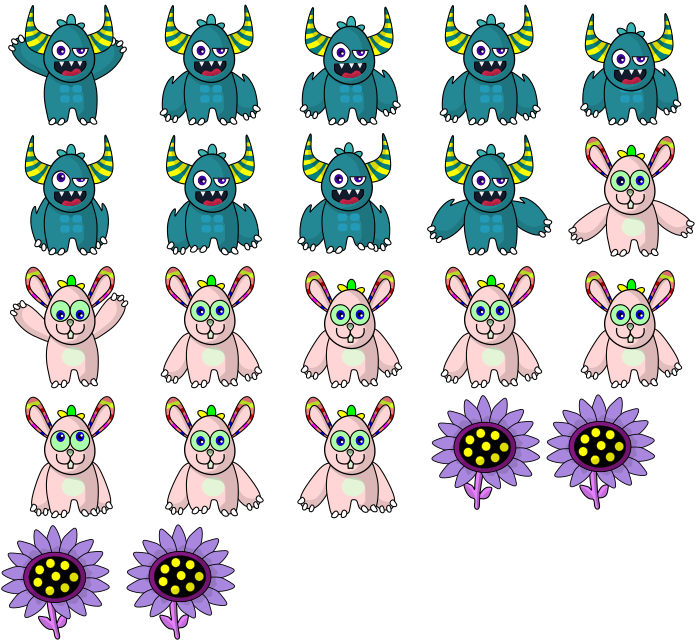
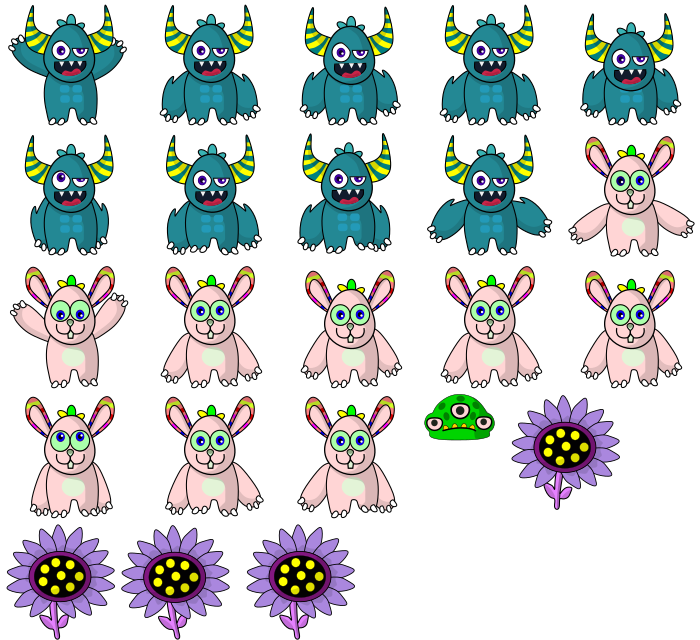
Las plagas se mueven.

Changed region(s): [[0.0, 0.8125, 0.51, 1.0], [0.6, 0.5938, 0.93, 0.8125]]

diff --git a/src/scenes/Level.ts b/src/scenes/Level.ts
@@ -10,6 +10,7 @@ import PlayerPrefab from "../prefabs/PlayerPrefab";
 import SemillaPrefab from "../prefabs/SemillaPrefab";
 import MacetaPrefab from "./MacetaPrefab";
 import ControllerButtonPrefab from "../prefabs/ControllerButtonPrefab";
+import EnemyPrefab from "../prefabs/EnemyPrefab";
 
 export default class Level extends Phaser.Scene {
 
@@ -130,33 +131,33 @@ export default class Level extends Phaser.Scene {
 		// macetasLayer
 		const macetasLayer = this.add.layer();
 
-		// tierra_png_3
-		const tierra_png_3 = new MacetaPrefab(this, 1146, 260, "plataformas", "tierra.png");
-		macetasLayer.add(tierra_png_3);
+		// maceta3
+		const maceta3 = new MacetaPrefab(this, 1146, 260, "plataformas", "tierra.png");
+		macetasLayer.add(maceta3);
 
-		// tierra_png_2
-		const tierra_png_2 = new MacetaPrefab(this, 2113, 269, "plataformas", "tierra.png");
-		macetasLayer.add(tierra_png_2);
+		// maceta5
+		const maceta5 = new MacetaPrefab(this, 2113, 269, "plataformas", "tierra.png");
+		macetasLayer.add(maceta5);
 
-		// tierra_png_1
-		const tierra_png_1 = new MacetaPrefab(this, 389, 194, "plataformas", "tierra.png");
-		macetasLayer.add(tierra_png_1);
+		// maceta1
+		const maceta1 = new MacetaPrefab(this, 389, 194, "plataformas", "tierra.png");
+		macetasLayer.add(maceta1);
 
-		// tierra_png
-		const tierra_png = new MacetaPrefab(this, 784, 231, "plataformas", "tierra.png");
-		macetasLayer.add(tierra_png);
+		// maceta2
+		const maceta2 = new MacetaPrefab(this, 784, 231, "plataformas", "tierra.png");
+		macetasLayer.add(maceta2);
 
-		// tierra_png_4
-		const tierra_png_4 = new MacetaPrefab(this, 1839, 260, "plataformas", "tierra.png");
-		macetasLayer.add(tierra_png_4);
+		// maceta4
+		const maceta4 = new MacetaPrefab(this, 1839, 260, "plataformas", "tierra.png");
+		macetasLayer.add(maceta4);
 
-		// tierra_png_2_1
-		const tierra_png_2_1 = new MacetaPrefab(this, 2762, 266, "plataformas", "tierra.png");
-		macetasLayer.add(tierra_png_2_1);
+		// maceta6
+		const maceta6 = new MacetaPrefab(this, 2762, 266, "plataformas", "tierra.png");
+		macetasLayer.add(maceta6);
 
-		// tierra_png_2_2
-		const tierra_png_2_2 = new MacetaPrefab(this, 3449, 254, "plataformas", "tierra.png");
-		macetasLayer.add(tierra_png_2_2);
+		// maceta7
+		const maceta7 = new MacetaPrefab(this, 3449, 254, "plataformas", "tierra.png");
+		macetasLayer.add(maceta7);
 
 		// floresLayer
 		const floresLayer = this.add.layer();
@@ -189,6 +190,37 @@ export default class Level extends Phaser.Scene {
 		// saltar_png
 		const saltar_png = this.add.image(710, 522, "ui", "saltar.png");
 		controllerLayer.add(saltar_png);
+
+		// enemyLayer
+		const enemyLayer = this.add.layer();
+
+		// enemyPrefab1
+		const enemyPrefab1 = new EnemyPrefab(this, 386, -299);
+		enemyLayer.add(enemyPrefab1);
+
+		// enemyPrefab2
+		const enemyPrefab2 = new EnemyPrefab(this, 779, -302);
+		enemyLayer.add(enemyPrefab2);
+
+		// enemyPrefab3
+		const enemyPrefab3 = new EnemyPrefab(this, 1138, -182);
+		enemyLayer.add(enemyPrefab3);
+
+		// enemyPrefab4
+		const enemyPrefab4 = new EnemyPrefab(this, 1835, -212);
+		enemyLayer.add(enemyPrefab4);
+
+		// enemyPrefab5
+		const enemyPrefab5 = new EnemyPrefab(this, 2122, -187);
+		enemyLayer.add(enemyPrefab5);
+
+		// enemyPrefab6
+		const enemyPrefab6 = new EnemyPrefab(this, 2750, -187);
+		enemyLayer.add(enemyPrefab6);
+
+		// enemyPrefab7
+		const enemyPrefab7 = new EnemyPrefab(this, 3442, -154);
+		enemyLayer.add(enemyPrefab7);
 
 		// fondo (components)
 		const fondoParallax = new Parallax(fondo);
@@ -239,6 +271,27 @@ export default class Level extends Phaser.Scene {
 		// saltar_png (components)
 		const saltar_pngParallax = new Parallax(saltar_png);
 		saltar_pngParallax.factor = 0;
+
+		// enemyPrefab1 (prefab fields)
+		enemyPrefab1.maceta = maceta1;
+
+		// enemyPrefab2 (prefab fields)
+		enemyPrefab2.maceta = maceta2;
+
+		// enemyPrefab3 (prefab fields)
+		enemyPrefab3.maceta = maceta3;
+
+		// enemyPrefab4 (prefab fields)
+		enemyPrefab4.maceta = maceta4;
+
+		// enemyPrefab5 (prefab fields)
+		enemyPrefab5.maceta = maceta5;
+
+		// enemyPrefab6 (prefab fields)
+		enemyPrefab6.maceta = maceta6;
+
+		// enemyPrefab7 (prefab fields)
+		enemyPrefab7.maceta = maceta7;
 
 		this.player = player;
 

diff --git a/src/prefabs/EnemyPrefab.ts b/src/prefabs/EnemyPrefab.ts
@@ -1,0 +1,57 @@
+import MacetaPrefab from "~/scenes/MacetaPrefab";
+
+/* START OF COMPILED CODE */
+
+import Phaser from "phaser";
+
+export default class EnemyPrefab extends Phaser.GameObjects.Image {
+
+	constructor(scene: Phaser.Scene, x?: number, y?: number, texture?: string, frame?: number | string) {
+		super(scene, x ?? 311, y ?? 187, texture || "character", frame ?? "Enemigo.png");
+
+		/* START-USER-CTR-CODE */
+		this.scene.events.once("scene-awake", () => this.awakePrefab());
+		/* END-USER-CTR-CODE */
+	}
+
+	public maceta: MacetaPrefab | undefined;
+
+	/* START-USER-CODE */
+
+	private awakePrefab() {
+
+		if (!this.maceta) {
+
+			return;
+		}
+
+		this.scene.add.tween({
+			targets: this,  
+			delay: 2000 + Math.random() * 8000,
+			y: this.maceta.y - 40,
+			repeat: -1,
+			yoyo: true,
+			duration: 6000,
+			repeatDelay: 3000, 
+			ease: Phaser.Math.Easing.Quadratic.Out
+		});
+
+		this.scene.add.tween({
+			targets: this,  
+			angle: {
+				from: -20,
+				to: 20
+			},
+			repeat: -1,
+			yoyo: true,
+			duration: 2000,
+			ease: Phaser.Math.Easing.Quadratic.Out
+		});
+	}
+
+	/* END-USER-CODE */
+}
+
+/* END OF COMPILED CODE */
+
+// You can write more code here
